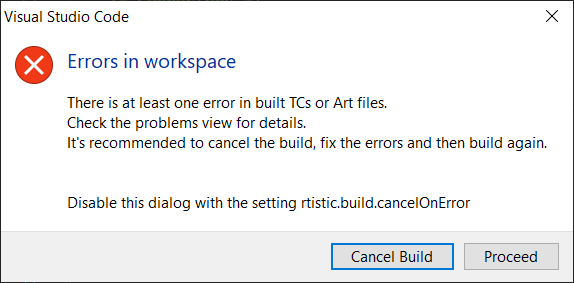
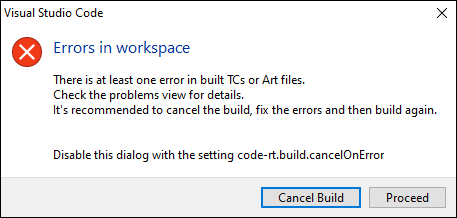
Final doc updates for 1.0.0

diff --git a/docs-sources/validation.md b/docs-sources/validation.md
@@ -29,9 +29,9 @@ Problems are also reported by means of icons in diagrams. Below are three states
 
 ![](images/diagram_diagnostics.png)
 
-A problem icon has a tooltip that shows the message of the problem. You can disable problem reporting in diagrams by means of a configuration setting `code-rt.diagram.showDiagnostics`.
+A problem icon has a tooltip that shows the message of the problem. You can disable problem reporting in diagrams by means of a [configuration setting](settings.md#show-diagnostics) `code-rt.diagram.showDiagnostics`.
 
-For a TC file, all properties it contains will be validated, and problems that are found during this validation are shown by underlining TC properties. You can hover 
+For a TC file, all properties it contains will be validated, and problems that are found during this validation are shown by underlining TC properties.
 
 ![](images/tc-validation.png)
 
@@ -52,14 +52,14 @@ Some problems have one or several typical solutions that are possible to apply a
 Note that most semantic errors cannot be automatically resolved like this, but in some simple cases it's possible. 
 
 ## Configuring Validation
-Validation can be configured to change which rules that should run, and what severity they should report found problems with. By default every [validation rule](#validation-rules) is enabled and uses a predefined severity level. Validation rules can be configured either globally by means of a setting, or locally by means of a property [rule_config](../art-lang#rule_config). In both cases the rule configuration consists of a comma-separated list of 5 letter strings where the first letter specifies if the rule is disabled and it's severity (X,I,W,E) and remaining letters specify the rule id. For example, the rule configuration `X0003,I0004,W0009,E0005` means the following:
+Validation can be configured to change which rules that should run, and what severity they should report found problems with. By default every [validation rule](#validation-rules) is enabled and uses a predefined severity level. Validation rules can be configured either globally by means of a setting, or locally by means of a property [rule_config](../art-lang#rule_config). In both cases the rule configuration consists of a comma-separated list of 5 letter strings where the first letter specifies if the rule is disabled or it's severity (X,I,W,E) and remaining letters specify the rule id. For example, the rule configuration `X0003,I0004,W0009,E0005` means the following:
 
 * The rule [ART_0003_nameShouldStartWithUpperCase](#art_0003_nameshouldstartwithuppercase) is disabled
 * The rule [ART_0004_nameShouldStartWithLowerCase](#art_0004_nameshouldstartwithlowercase) has its severity set to Information
 * The rule [ART_0009_invalidProperty](#art_0009_invalidproperty) has its severity set to Warning
 * The rule [ART_0005_choiceWithoutElseTransition](#art_0005_choicewithoutelsetransition) has its severity set to Error
 
-To configure validation rules globally, use the configuration setting `code-rt.validation.ruleConfiguration`. A global configuration will apply for all Art files in the workspace, and all Art elements within those files, unless a local rule configuration has been set on an element.
+To configure validation rules globally, use the [configuration setting](settings.md#rule-configuration) `code-rt.validation.ruleConfiguration`. A global configuration will apply for all Art files in the workspace, and all Art elements within those files, unless a local rule configuration has been set on an element.
 
 To configure validation rules locally, set the property [rule_config](../art-lang#rule_config) on an Art element. It will affect the validation of that Art element itself, as well as all elements contained within that Art element. Here is an example of how to disable the validation rule [ART_0003_nameShouldStartWithUpperCase](#art_0003_nameshouldstartwithuppercase) on a capsule. Note that it also will disable this rule for elements contained within the capsule, such as states.
 
@@ -90,7 +90,7 @@ This chapter lists all validation rules which {$product.name$} checks your Art a
 |----------|:-------------|:-------------
 | Error | An Art element has a name that is not a valid C++ name, or a name that will cause a name clash in the generated code. | Prepend Underscore
 
-Art elements are translated to C++ elements without changing the elements' names. Hence you need to choose names for Art elements that are valid in C++. For example, [C++ keywords](../art-lang#names-and-keywords) cannot be used. 
+Art elements are translated to C++ elements without changing the elements' names. Hence you need to choose names for Art elements that are valid in C++. For example, C++ keywords cannot be used. 
 
 Furthermore, names of such Art elements must not clash with global names used by the [TargetRTS](target-rts/index.md) or names within generated C++ files.
 
@@ -363,14 +363,14 @@ Most Art elements have [properties](../art-lang#art_properties) and every proper
 A Quick Fix is available for removing the setting of the property. 
 
 ``` art
-class C_PropDefaultValue [[rt::properties(
-    const_target_param_for_decode=false // ART_0011
-)]] {
+capsule C_PropDefaultValue [[rt::properties(
+    generate_file_header=true // ART_0011
+)]]{
     statemachine {
         state State;
         initial -> State;
     };
-};  
+};
 ```
 
 ### ART_0012_invalidCodeSnippet
@@ -1113,7 +1113,7 @@ capsule N {
 ```
 
 ## TC Validation Rules
-TC files are validated to detect problems related to TC properties. The rules that perform this validation can be enabled and disabled, and have their severity customized, in the same way as the Art [validation rules](#validation-rules). They use the prefix "TC" and ids in the range starting from 7000 and above. These rules are listed below.
+TC files are validated to detect problems related to TC properties. The rules that perform this validation can be enabled and disabled, and have their severity customized, in the same way as the Art [validation rules](#validation-rules) (with the exception that it's only possible to configure these rules [globally](settings.md#rule-configuration)). They use the prefix "TC" and ids in the range starting from 7000 and above. These rules are listed below.
 
 ### TC_7000_wrongValueType
 | Severity | Reason | Quick Fix

diff --git a/docs-sources/building/build-variants.md b/docs-sources/building/build-variants.md
@@ -3,6 +3,7 @@ There is often a need to build several variants of the same application. For exa
 * Create a debug versus release build
 * Add special instrumentation in order to detect run-time errors such as memory leaks
 * Build for multiple target platforms
+* Build a test executable for performing unit testing of a capsule.
 
 A variant of an application may often only use slightly different build settings (for example, setting a compiler flag to include debug symbols), but in some cases the application logic may also be somewhat different (for example, use of some code that is specific to a certain target platform). {$product.name$} provides a powerful mechanism, based on scripting, that allows you to build several variants of an application with minimal effort.
 
@@ -110,17 +111,16 @@ function postProcess(topTC, allTCs, targetPlatform) {
 	  }
 	  else if (TCF.globals().targetCompiler == 'GCC') {
 		allTCs[i].compileCommand = 'gcc';
-	  }
-	  
-	  if (targetPlatform == 'MacOS') {
+	  }	  	  
+	}
+	if (targetPlatform == 'MacOS') {
 	    MSG.formatWarning("MacOS builds are not fully supported yet");	  
-	  }
 	}
 }
 ```
 Also in this function we can use the [`TCF`](#tcf-object) and [`MSG`](#msg-object) objects to access global data and to print messages to the build log. But most importantly, we can directly write the properties of the `topTC` (the TC that is built) and/or `allTCs` (the TC that is built followed by all its prerequisite TCs). 
 
-By modifying the [compileArguments](transformation-configurations.md#compilearguments) TC property the build variant setting script can set preprocessor macros in order to customize the code that gets compiled. Hence we can both customize how the application is built, and also what it will do at run-time. This makes Build Variants a very powerful feature for building variants of an application, controlled by a few well-defined high-level build variant settings.
+By modifying the [compileArguments](transformation-configurations.md#compilearguments) TC property the build variant setting script can set preprocessor macros in order to customize the code that gets compiled. Hence we can both customize *how* the application is built, and also *what* it will do at run-time. This makes Build Variants a very powerful feature for building variants of an application, controlled by a few well-defined high-level build variant settings.
 
 !!! example
     You can find a sample application that uses build variants [here](https://github.com/secure-dev-ops/code-realtime/tree/main/art-comp-test/tests/build_variants).
@@ -140,6 +140,7 @@ In addition to standard JavaScript and Java functionality, a build variant scrip
 1. **Evaluation of a TC**:
 TCs are evaluated when they are built, but also in order to perform validation of TC properties, for example while editing the TC. JavaScript in a TC file has access to the [TCF object](#tcf-object). Typically on the first line in a TC it's used like this: `let tc = TCF.define(TCF.CPP_TRANSFORM);`.
 Since TCs are evaluated frequently all JavaScript it contains should only compute what it necessary for setting the values of TC properties. It should not have any side-effects, and should not print any messages.
+
 2. **Build Variants script**:
 A build variants script is evaluated when building a TC with the [Art Compiler](art-compiler.md). This evaluation happens early with the purpose of deciding which build variant settings that are applicable for the build. You can use the [BVF object](#bvf-object) in a build variants script.
 

diff --git a/docs-sources/target-rts/threads.md b/docs-sources/target-rts/threads.md
@@ -58,7 +58,7 @@ tc.threads = [ 'LibraryThread' ];
 If you anyway define physical threads for a library TC they will be ignored by the C++ code generator, and only the logical threads will be considered.
 
 ## Running a Capsule Instance in a Custom Thread
-Capsule instances are connected in a tree structure where the top capsule is the root. A capsule instance always lives inside a part of another (container) capsule. The top capsule instance is always run by the main thread, but for all other capsule instances you can choose which thread that should run it.
+Capsule instances are connected in a tree structure where the top capsule instance is the root. A capsule instance always lives inside a part of another (container) capsule. The top capsule instance is always run by the main thread, but for all other capsule instances you can choose which thread that should run it.
 
 When a new capsule instance is created it will by default be run by the same thread that runs the container capsule instance. This means that by default all capsule instances in the application will be run by the main thread.
 

diff --git a/docs-sources/art-lang/index.md b/docs-sources/art-lang/index.md
@@ -1391,7 +1391,7 @@ Below is a table that lists all properties that can be used on different kinds o
 | [Port](#port) | [registration](#registration) | Enumeration (automatic, automatic_locked, application) | automatic
 | [Port](#port) | [registration_name](#registration_name) | String | ""
 | [Initial transition](#initial-transition), [Triggered transition](#transition) | [const_rtdata](#const_rtdata) | Boolean | true
-| [Transition](#transition), [State](#state), [Choice](#choice-and-junction), [Junction](#choice-and-junction), [Entry Point](#hierarchical-state-machine), [Exit Point](#hierarchical-state-machine) | [color](#color) | String | ""
+| [Transition](#transition), [State](#state), [Choice](#choice-and-junction), [Junction](#choice-and-junction), [Entry Point](#hierarchical-state-machine), [Exit Point](#hierarchical-state-machine), [Port](#port), [Part](#part), [Capsule](#capsule), [Class](#class-with-state-machine) | [color](#color) | String | ""
 
 
 ### generate_file_header

diff --git a/docs-sources/building/launch-configurations.md b/docs-sources/building/launch-configurations.md
@@ -1,6 +1,6 @@
 As described above you can launch a built executable using the [Run command](index.md#tc-context-menu-commands) in the TC context menu. This is a quick and easy way to run an executable, which is sufficient for simple applications. However, the simplicity comes with several limitations:
 
-* You cannot specify any custom command-line arguments for the launched executable. In fact, the executable is always launched with one hard-coded argument `--URTS_DEBUG=quit` which means it will run in non-debug mode.
+* You cannot specify any custom command-line arguments for the launched executable. In fact, the executable is always launched with one hard-coded argument `-URTS_DEBUG=quit` which means it will run in non-debug mode.
 * You cannot set any custom environment variables for the launched executable.
 * You cannot set the current working directory for the launched executable.
 

diff --git a/docs-sources/building/index.md b/docs-sources/building/index.md
@@ -40,6 +40,13 @@ If you build a TC and at least one error exists in the TC itself, in prerequisit
 
 Use the setting [`code-rt.build.cancelOnError`](../settings.md#cancel-on-error) to suppress this dialog.
 
+## Building and Running without a TC
+In some cases of rapid prototyping and testing you may want to quickly build and run a capsule without first having to create a TC or a [launch configuration](launch-configurations.md). Then you can click the "Run" link that appears just before any capsule in the Art text editor.
+
+![](images/running-without-tc.png)
+
+This command will create a temporary TC file and use a temporary target folder. All other TC properties will have their default values.
+
 ## Build Messages
 When you use the **Build** or **Run** commands on a TC, messages will be printed in two places depending on what kind of message it is:
 

diff --git a/docs-sources/building/art-compiler.md b/docs-sources/building/art-compiler.md
@@ -19,8 +19,8 @@ Often you don't need to use any JVM option, but if the application is huge you m
 To test that the Art Compiler can be successfully launched you can try to invoke it without any arguments. You should see an output similar to the below:
 
 ```
-C:\openjdk-17\bin\java -jar C:\Users\MATTIAS.MOHLIN\testarea\install\VSCode\data\extensions\hcltechnologies.code-realtime-ce\bin\artcompiler.jar
-10:24:53 : INFO : Art Compiler 1.1.0-20231212_1212
+C:\openjdk-17\bin\java -jar c:\Users\MATTIAS.MOHLIN\testarea\install\VSCode\data\extensions\secure-dev-ops.code-realtime-ce-1.0.0\bin\artcompiler.jar
+10:24:53 : INFO : Art Compiler 1.0.0-20231212_1212
 10:24:53 : INFO : Copyright (C) HCL Technologies Ltd. 2022, 2023.
 10:24:54 : INFO : Arguments:
 Usage: java -jar artcompiler.jar <options>
